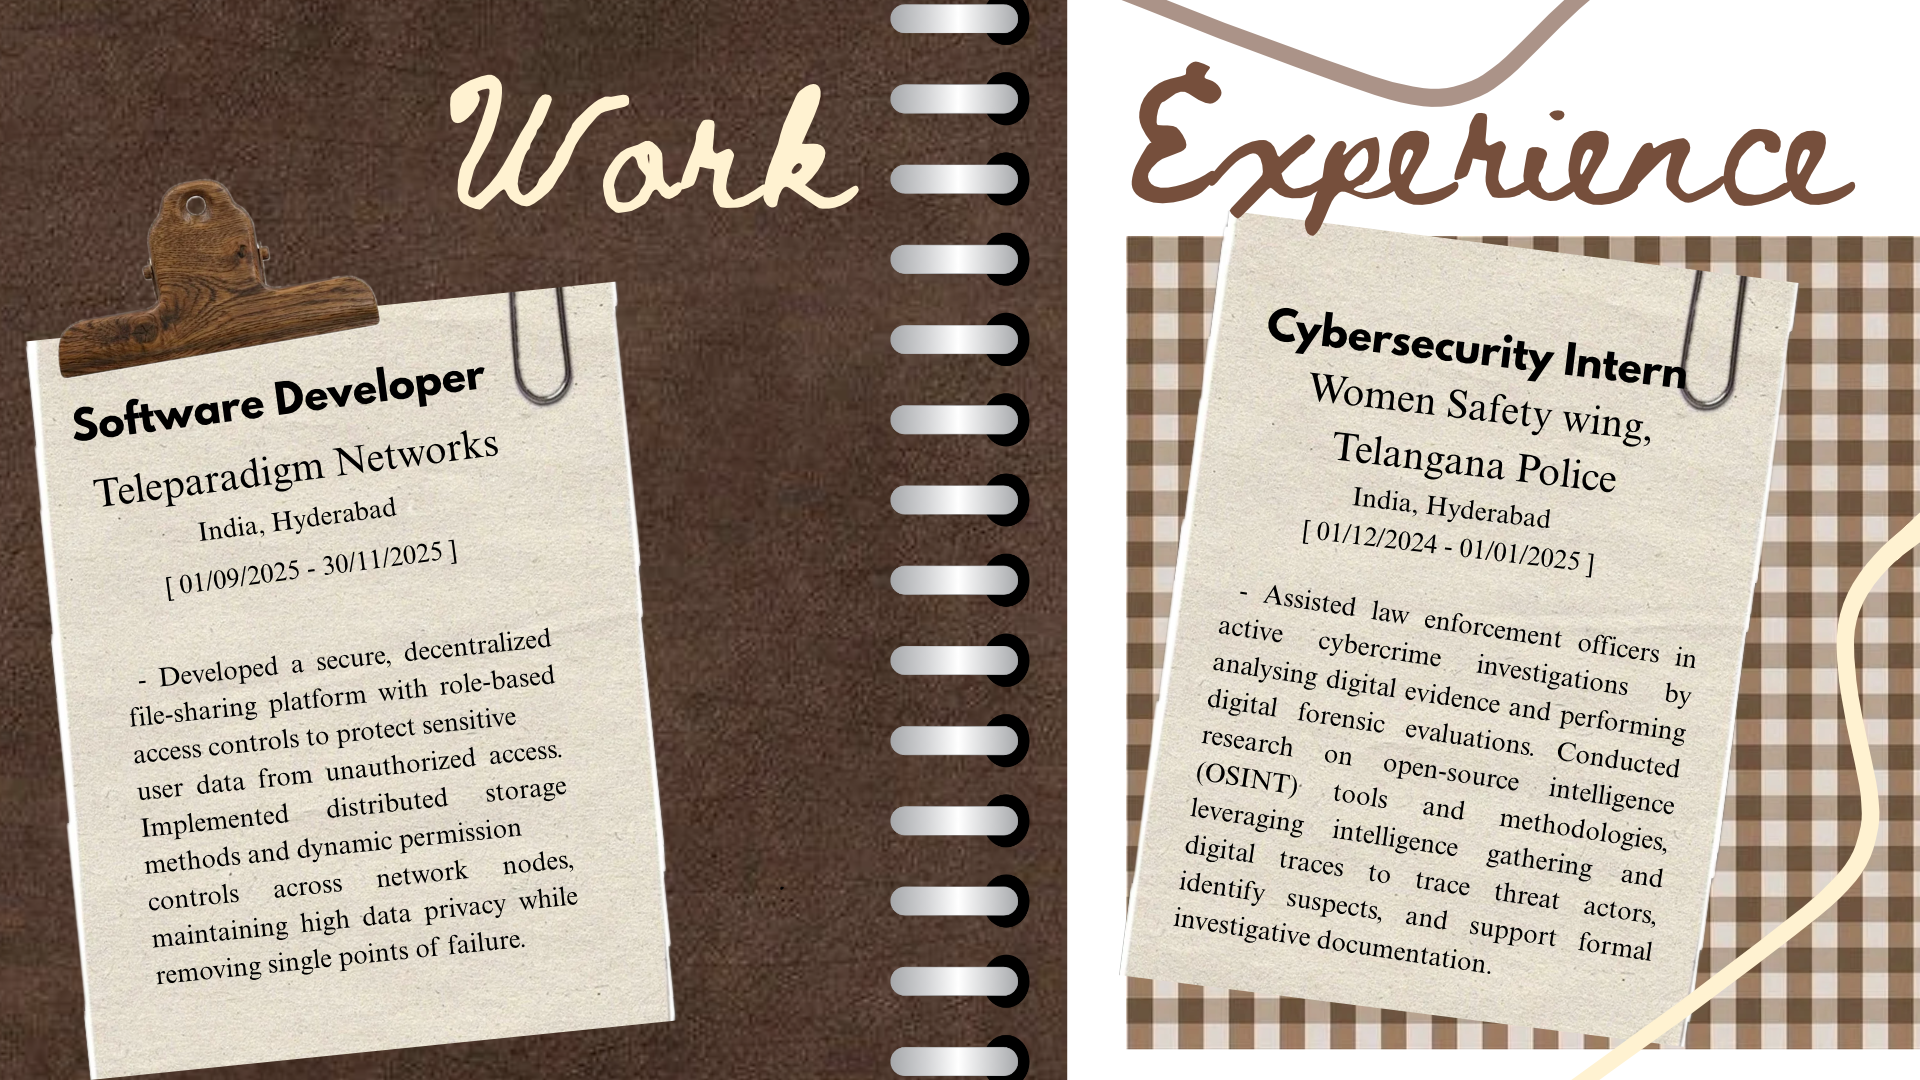
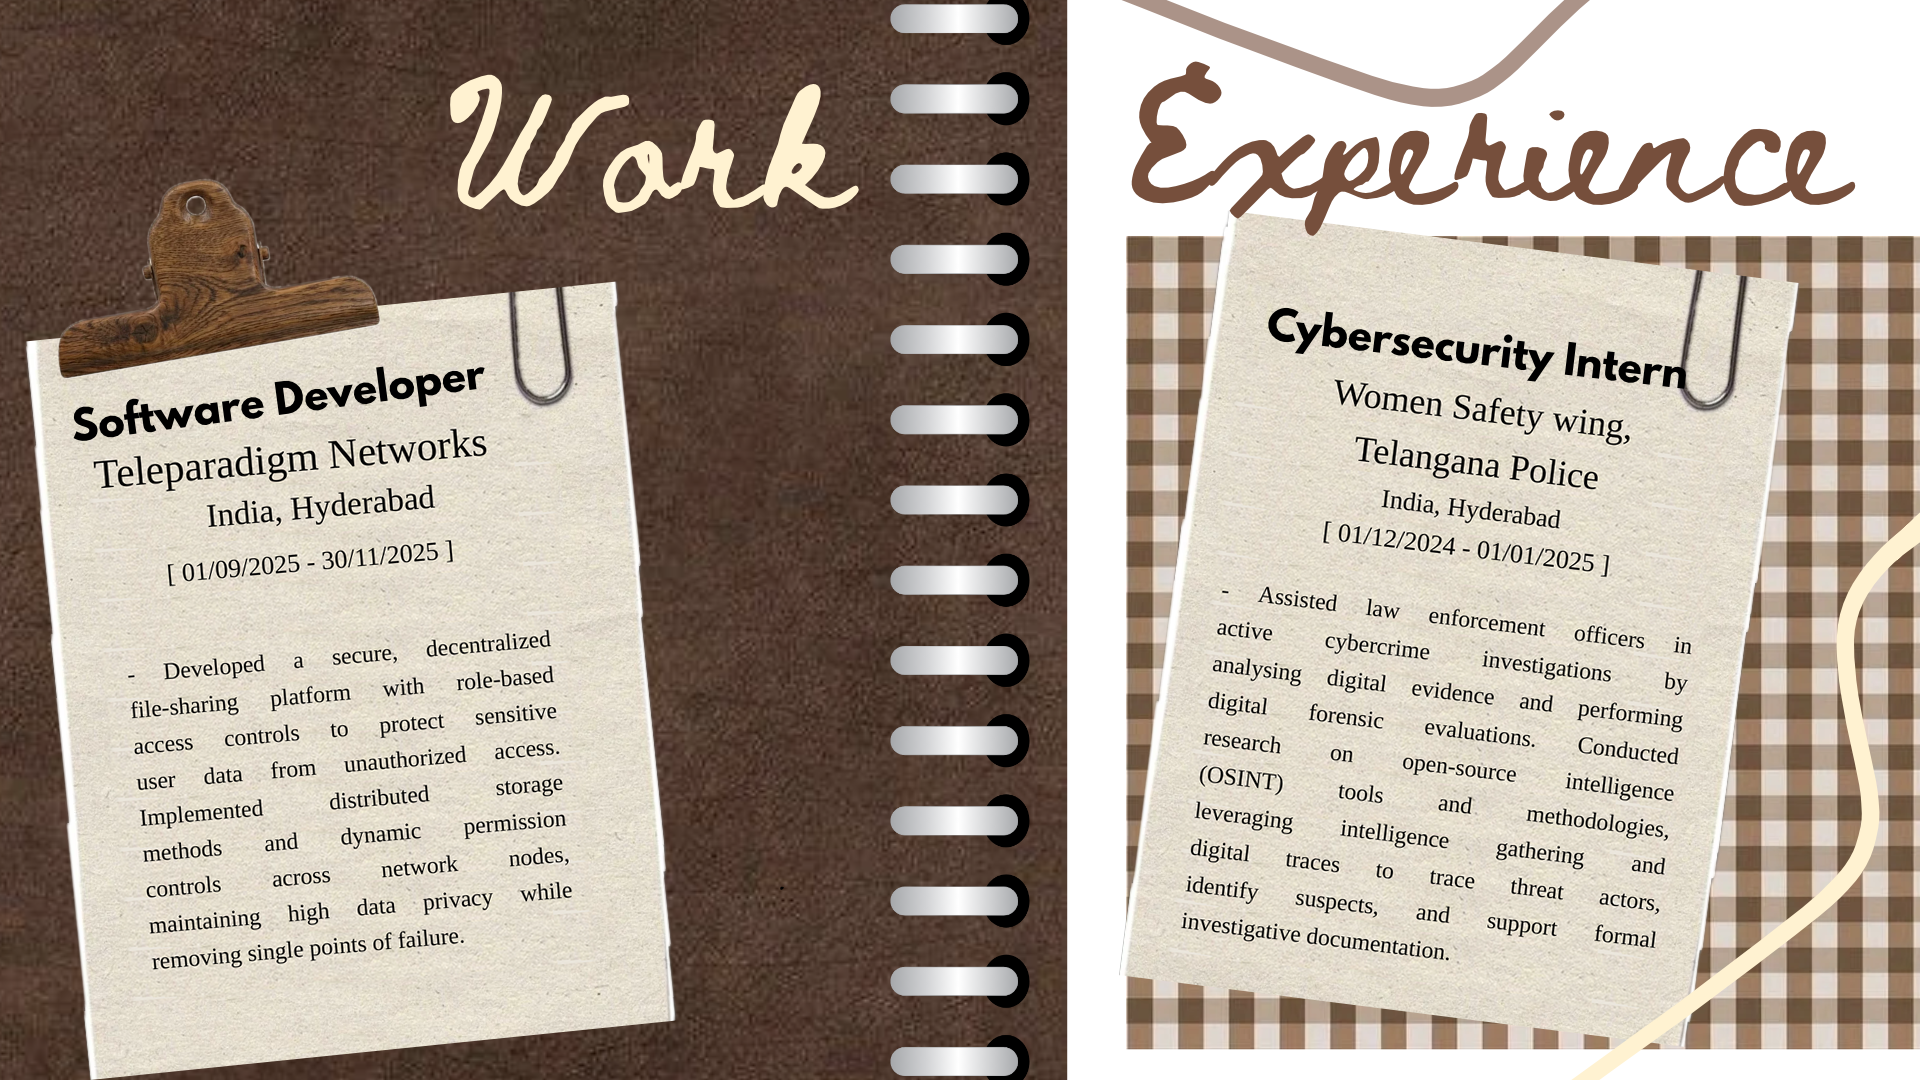
fix(experience): rebuild Page 2 with uniform font weight across all letters

Changed region(s): [[0.5938, 0.3361, 0.875, 0.9167], [0.0625, 0.5806, 0.3125, 0.9167], [0.0312, 0.3972, 0.2812, 0.55]]

diff --git a/src/components/portfolio/scrapbook/WoodenClipboardClip.tsx b/src/components/portfolio/scrapbook/WoodenClipboardClip.tsx
@@ -1,0 +1,123 @@
+import React from 'react'
+
+interface Props {
+  className?: string
+}
+
+export const WoodenClipboardClip: React.FC<Props> = ({ className = '' }) => {
+  return (
+    <svg
+      viewBox="0 0 190 76"
+      fill="none"
+      xmlns="http://www.w3.org/2000/svg"
+      className={`overflow-visible pointer-events-none select-none ${className}`}
+    >
+      <defs>
+        {/* Soft shadow under the clipboard clamp */}
+        <filter id="woodClipShadow" x="-20%" y="-20%" width="140%" height="160%" filterUnits="userSpaceOnUse">
+          <feDropShadow dx="0" dy="5" stdDeviation="4.5" floodColor="#1a0c04" floodOpacity="0.48" />
+          <feDropShadow dx="0" dy="2" stdDeviation="1.5" floodColor="#000000" floodOpacity="0.35" />
+        </filter>
+
+        {/* Realistic warm walnut / teak woodgrain vertical gradient */}
+        <linearGradient id="woodBase" x1="0%" y1="0%" x2="0%" y2="100%">
+          <stop offset="0%" stopColor="#965c36" />
+          <stop offset="20%" stopColor="#834b28" />
+          <stop offset="50%" stopColor="#6e3c1c" />
+          <stop offset="80%" stopColor="#582d13" />
+          <stop offset="100%" stopColor="#44210c" />
+        </linearGradient>
+
+        {/* Horizontal wood streaks */}
+        <linearGradient id="woodStreak" x1="0%" y1="50%" x2="100%" y2="50%">
+          <stop offset="0%" stopColor="#a36940" />
+          <stop offset="15%" stopColor="#7a4625" />
+          <stop offset="35%" stopColor="#925b34" />
+          <stop offset="55%" stopColor="#633618" />
+          <stop offset="72%" stopColor="#88522d" />
+          <stop offset="88%" stopColor="#6f3d1e" />
+          <stop offset="100%" stopColor="#824c28" />
+        </linearGradient>
+
+        {/* Metallic rivet rim */}
+        <radialGradient id="brassRivet" cx="50%" cy="50%" r="50%">
+          <stop offset="0%" stopColor="#fef08a" />
+          <stop offset="40%" stopColor="#ca8a04" />
+          <stop offset="80%" stopColor="#854d0e" />
+          <stop offset="100%" stopColor="#3f2305" />
+        </radialGradient>
+
+        {/* Lower metallic clamp bar */}
+        <linearGradient id="metalClamp" x1="0%" y1="0%" x2="0%" y2="100%">
+          <stop offset="0%" stopColor="#ffffff" stopOpacity="0.95" />
+          <stop offset="25%" stopColor="#e2e8f0" />
+          <stop offset="50%" stopColor="#94a3b8" />
+          <stop offset="75%" stopColor="#475569" />
+          <stop offset="100%" stopColor="#1e293b" />
+        </linearGradient>
+      </defs>
+
+      {/* Main Wood Bracket Body */}
+      <g filter="url(#woodClipShadow)">
+        {/* Arched Top Tab with central hole */}
+        <path
+          d="M 68 38 
+             C 68 24, 75 8, 95 8 
+             C 115 8, 122 24, 122 38 
+             L 174 38 
+             C 181 38, 185 43, 184 50 
+             L 181 66 
+             C 180 69, 177 71, 172 71 
+             L 18 71 
+             C 13 71, 10 69, 9 66 
+             L 6 50 
+             C 5 43, 9 38, 16 38 
+             Z"
+          fill="url(#woodStreak)"
+        />
+        {/* Wood Texture Multiplier */}
+        <path
+          d="M 68 38 
+             C 68 24, 75 8, 95 8 
+             C 115 8, 122 24, 122 38 
+             L 174 38 
+             C 181 38, 185 43, 184 50 
+             L 181 66 
+             C 180 69, 177 71, 172 71 
+             L 18 71 
+             C 13 71, 10 69, 9 66 
+             L 6 50 
+             C 5 43, 9 38, 16 38 
+             Z"
+          fill="url(#woodBase)"
+          opacity="0.65"
+          style={{ mixBlendMode: 'multiply' }}
+        />
+
+        {/* Top Edge Bevel Highlight */}
+        <path
+          d="M 70 36 C 76 20, 84 10, 95 10 C 106 10, 114 20, 120 36 L 173 36 C 178 36, 181 39, 182 44"
+          stroke="rgba(255, 235, 210, 0.45)"
+          strokeWidth="1.2"
+          fill="none"
+        />
+
+        {/* Center Hanging Eyelet / Brass Rivet */}
+        <circle cx="95" cy="22" r="9.5" fill="#1e1008" />
+        <circle cx="95" cy="22" r="9.5" fill="url(#brassRivet)" opacity="0.88" />
+        <circle cx="95" cy="22" r="5.5" fill="#2d1a0e" />
+        <circle cx="95" cy="22" r="5.5" stroke="rgba(255, 255, 255, 0.45)" strokeWidth="0.8" fill="none" />
+
+        {/* Lower Horizontal Metal Clamp Strip */}
+        <rect x="20" y="55" width="150" height="12" rx="2.5" fill="url(#metalClamp)" />
+        <rect x="20" y="55" width="150" height="1.5" fill="rgba(255,255,255,0.75)" />
+
+        {/* Left & Right Rivet Screws on Clamp */}
+        <circle cx="30" cy="61" r="2.5" fill="#0f172a" />
+        <circle cx="30" cy="60.5" r="2" fill="#94a3b8" />
+        <circle cx="160" cy="61" r="2.5" fill="#0f172a" />
+        <circle cx="160" cy="60.5" r="2" fill="#94a3b8" />
+      </g>
+    </svg>
+  )
+}

diff --git a/src/index.css b/src/index.css
@@ -128,3 +128,51 @@ body {
     transparent 100%
   );
 }
+
+/* Typography for Education & Portfolio Canvas */
+.font-spartan {
+  font-family: 'League Spartan', -apple-system, BlinkMacSystemFont, 'Segoe UI', Roboto, sans-serif;
+  -webkit-font-smoothing: antialiased;
+  -moz-osx-font-smoothing: grayscale;
+  text-rendering: geometricPrecision;
+}
+
+.font-times {
+  font-family: 'Times New Roman', Times, 'Tinos', Baskerville, Georgia, serif;
+  -webkit-font-smoothing: antialiased;
+  -moz-osx-font-smoothing: grayscale;
+  text-rendering: geometricPrecision;
+}
+
+.font-script {
+  font-family: 'Dancing Script', 'Caveat', cursive, sans-serif;
+  -webkit-font-smoothing: antialiased;
+  -moz-osx-font-smoothing: grayscale;
+  text-rendering: geometricPrecision;
+}
+
+/* Scrapbook Textures & Patterns */
+.bg-leather-notebook {
+  background-color: #4a3324;
+  background-image: 
+    radial-gradient(ellipse at 35% 25%, rgba(140, 95, 65, 0.5) 0%, transparent 60%),
+    radial-gradient(ellipse at 80% 75%, rgba(35, 20, 10, 0.65) 0%, transparent 60%),
+    linear-gradient(135deg, rgba(255, 255, 255, 0.04) 0%, transparent 50%, rgba(0, 0, 0, 0.3) 100%);
+}
+
+.bg-gingham-brown {
+  background-color: #f7eee4;
+  background-image: 
+    linear-gradient(90deg, rgba(138, 97, 68, 0.42) 50%, transparent 50%),
+    linear-gradient(rgba(138, 97, 68, 0.42) 50%, transparent 50%);
+  background-size: 26px 26px;
+}
+
+.bg-scrapbook-note {
+  background-color: #f8f4ea;
+  background-image: 
+    radial-gradient(circle at 50% 50%, rgba(255, 255, 255, 0.7) 0%, rgba(240, 232, 218, 0.4) 100%),
+    linear-gradient(90deg, rgba(0, 0, 0, 0.015) 1px, transparent 1px),
+    linear-gradient(rgba(0, 0, 0, 0.015) 1px, transparent 1px);
+  background-size: 100% 100%, 16px 16px, 16px 16px;
+}

diff --git a/src/components/portfolio/scrapbook/SpiralSpine.tsx b/src/components/portfolio/scrapbook/SpiralSpine.tsx
@@ -1,0 +1,32 @@
+import React from 'react'
+
+interface Props {
+  className?: string
+  count?: number
+}
+
+export const SpiralSpine: React.FC<Props> = ({ className = '', count = 14 }) => {
+  return (
+    <div className={`relative h-full flex flex-col justify-between py-1 pointer-events-none select-none z-30 ${className}`}>
+      {Array.from({ length: count }).map((_, i) => (
+        <div key={i} className="relative w-full h-[18px] sm:h-[22px] flex items-center justify-center">
+          {/* Punched hole slot on left (in dark brown cover) */}
+          <div className="absolute left-[2%] w-[18%] h-[12px] sm:h-[14px] bg-[#1a0e07] rounded-full shadow-[inset_0_2px_4px_rgba(0,0,0,0.95)] opacity-95" />
+
+          {/* Punched hole slot on right (in spine edge) */}
+          <div className="absolute right-[2%] w-[18%] h-[12px] sm:h-[14px] bg-[#1a0e07] rounded-full shadow-[inset_0_2px_4px_rgba(0,0,0,0.95)] opacity-95" />
+
+          {/* Realistic 3D Silver Metallic Ring Coil */}
+          <div className="relative w-[88%] h-[10px] sm:h-[13px] rounded-full shadow-[0_4px_6px_rgba(0,0,0,0.6),0_1.5px_3px_rgba(0,0,0,0.4)] bg-gradient-to-b from-[#ffffff] via-[#cbd5e1] via-50% to-[#475569] border-t border-white/95">
+            {/* Top specular highlight streak */}
+            <div className="absolute inset-x-2 top-[1px] h-[1.5px] bg-white/95 rounded-full" />
+            {/* Center soft metallic reflection */}
+            <div className="absolute inset-x-3 top-[3.5px] h-[1px] bg-white/60 rounded-full" />
+            {/* Bottom cylinder shadow */}
+            <div className="absolute inset-x-1 bottom-0 h-[2px] bg-[#1e293b]/60 rounded-full" />
+          </div>
+        </div>
+      ))}
+    </div>
+  )
+}

diff --git a/src/components/portfolio/scrapbook/MetallicPaperclip.tsx b/src/components/portfolio/scrapbook/MetallicPaperclip.tsx
@@ -1,0 +1,58 @@
+import React from 'react'
+
+interface Props {
+  className?: string
+  width?: number | string
+  height?: number | string
+  angle?: number
+}
+
+export const MetallicPaperclip: React.FC<Props> = ({
+  className = '',
+  width = 32,
+  height = 76,
+  angle = 0
+}) => {
+  return (
+    <svg
+      width={width}
+      height={height}
+      viewBox="0 0 34 80"
+      fill="none"
+      xmlns="http://www.w3.org/2000/svg"
+      style={{ transform: `rotate(${angle}deg)` }}
+      className={`overflow-visible pointer-events-none select-none drop-shadow-[0_3px_5px_rgba(0,0,0,0.38)] ${className}`}
+    >
+      <defs>
+        {/* Steel metallic gradient with bright core highlight */}
+        <linearGradient id="chromeWire" x1="0%" y1="0%" x2="100%" y2="0%">
+          <stop offset="0%" stopColor="#475569" />
+          <stop offset="20%" stopColor="#94a3b8" />
+          <stop offset="48%" stopColor="#ffffff" />
+          <stop offset="75%" stopColor="#cbd5e1" />
+          <stop offset="100%" stopColor="#334155" />
+        </linearGradient>
+      </defs>
+
+      {/* Wire drop shadow path */}
+      <path
+        d="M 10 24 L 10 62 C 10 70, 24 70, 24 62 L 24 15 C 24 5, 5 5, 5 15 L 5 56"
+        stroke="rgba(0,0,0,0.28)"
+        strokeWidth="3.4"
+        strokeLinecap="round"
+        fill="none"
+        transform="translate(0, 1.8)"
+      />
+
+      {/* Main Steel Wire Path */}
+      <path
+        d="M 10 24 L 10 62 C 10 69, 24 69, 24 62 L 24 15 C 24 6, 5 6, 5 15 L 5 56"
+        stroke="url(#chromeWire)"
+        strokeWidth="3"
+        strokeLinecap="round"
+        strokeLinejoin="round"
+        fill="none"
+      />
+    </svg>
+  )
+}

diff --git a/src/components/portfolio/scrapbook/DecorativeRibbons.tsx b/src/components/portfolio/scrapbook/DecorativeRibbons.tsx
@@ -1,0 +1,46 @@
+import React from 'react'
+
+interface Props {
+  className?: string
+}
+
+export const DecorativeRibbons: React.FC<Props> = ({ className = '' }) => {
+  return (
+    <svg
+      viewBox="0 0 460 576"
+      preserveAspectRatio="none"
+      fill="none"
+      xmlns="http://www.w3.org/2000/svg"
+      className={`absolute inset-0 w-full h-full pointer-events-none select-none z-10 ${className}`}
+    >
+      {/* Top Brown Hand-drawn Ribbon Doodle */}
+      <path
+        d="M -15 14 
+           C 40 16, 75 46, 125 46 
+           C 175 46, 205 14, 255 14 
+           C 305 14, 335 52, 385 52 
+           C 420 52, 445 30, 475 16"
+        stroke="#9a7b68"
+        strokeWidth="4"
+        strokeLinecap="round"
+        strokeLinejoin="round"
+        opacity="0.88"
+      />
+
+      {/* Right Margin Cream Wavy Ribbon Doodle */}
+      <path
+        d="M 435 240 
+           C 400 275, 415 320, 440 355 
+           C 458 385, 458 415, 432 445 
+           C 410 475, 418 505, 442 535 
+           C 452 552, 438 572, 428 585"
+        stroke="#f4ebd9"
+        strokeWidth="4.5"
+        strokeLinecap="round"
+        strokeLinejoin="round"
+        opacity="0.95"
+        filter="drop-shadow(0 1px 3px rgba(60, 35, 20, 0.28))"
+      />
+    </svg>
+  )
+}

diff --git a/src/components/portfolio/SpreadExperienceResearch.tsx b/src/components/portfolio/SpreadExperienceResearch.tsx
@@ -7,9 +7,9 @@ interface SpreadProps {
 export const SpreadExperienceResearch: React.FC<SpreadProps> = ({ className = '' }) => {
   return (
     <div className={`relative w-full h-full select-none overflow-hidden bg-[#2c1d11] ${className}`}>
-      {/* High-Resolution Master Export from Designs/Page2.png */}
+      {/* High-Resolution Rebuilt Master Export from Designs/Page2.png */}
       <img
-        src="/designs/Page2.png?v=hd"
+        src="/designs/Page2.png?v=uniform"
         alt="Work Experience Spread"
         loading="eager"
         fetchPriority="high"
